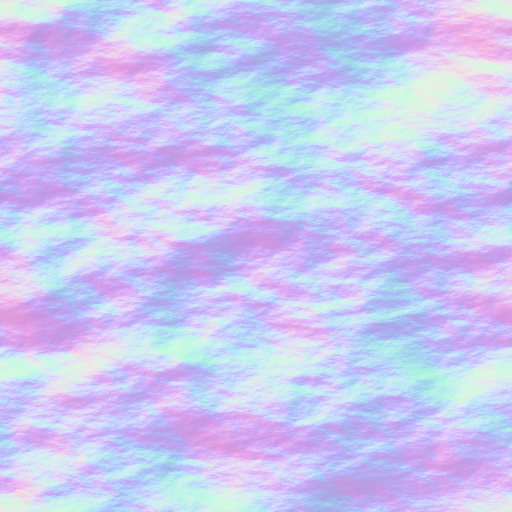
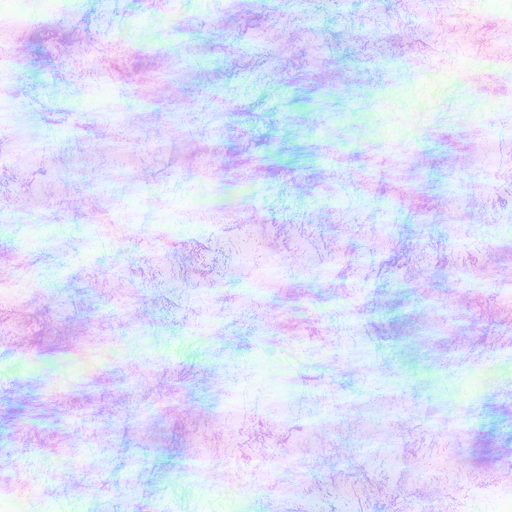
Editable water paramaters

diff --git a/main.py b/main.py
@@ -94,11 +94,13 @@ class Editor (DirectObject):
         self.grid.setColor(0,0,0,0.5) 
         self.grid_z=25.5
         self.grid_scale=16
+        self.grid.hide(BitMask32.bit(1))
         #self.grid.hide()
         #axis to help orient the scene
         self.axis=loader.loadModel('data/axis.egg')
         self.axis.reparentTo(render)
         self.axis.setLightOff()
+        self.axis.hide(BitMask32.bit(1))
         
         #store variables needed for diferent classes 
         self.mode=MODE_HEIGHT
@@ -320,6 +322,7 @@ class Editor (DirectObject):
         self.mesh.node().setFinal(1)
         self.mesh.setBin("background", 11)
         self.mesh.hide(BitMask32.bit(1))
+        self.mesh.setShaderInput("water_level",26.0)
         #emptyPlane = render.attachNewNode(PlaneNode("emptyPlane", Plane(Vec3(0, 0, 1), Point3(0, 0, 45))))        
         #self.mesh.setClipPlane(emptyPlane)
         
@@ -376,21 +379,27 @@ class Editor (DirectObject):
         tmpNP.setAttrib(CullFaceAttrib.makeReverse())
         tmpNP.setAttrib(ColorScaleAttrib.make(Vec4(24.0/200.0, 0.0, 0.0, 0.0)))
         self.waterCamera.node().setInitialState(tmpNP.getState())
-        self.waterNP.projectTexture(TextureStage("reflection"), wTexture, self.waterCamera)
-
+        #self.waterNP.projectTexture(TextureStage("reflection"), wTexture, self.waterCamera)
+        #reflect UV generated on the shader - faster(?)
+        self.waterNP.setShaderInput('camera',self.waterCamera)
+        self.waterNP.setShaderInput("reflection",wTexture)
+        
         self.waterNP.setShader(loader.loadShader("shaders/water.cg"))
         self.waterNP.setShaderInput("water_norm", loader.loadTexture('data/water.png'))  
+        self.waterNP.setShaderInput("height", self.painter.textures[BUFFER_HEIGHT]) 
         self.waterNP.setShaderInput("tile",10.0)
+        self.waterNP.setShaderInput("water_level",26.0)
         self.waterNP.setShaderInput("speed",0.02)
+        self.waterNP.setShaderInput("wave",Vec3(32.0, 34.0, 0.2))
         self.waterNP.setTransparency(TransparencyAttrib.MDual)
         
         #render.setAttrib(ColorScaleAttrib.make(Vec4(0.0, 0.0, 0.0, 1.0)))
         #light
         #sun
         self.dlight = DirectionalLight('dlight') 
-        self.dlight.setColor(VBase4(1.0, 1.0, 0.95, 1))     
+        self.dlight.setColor(VBase4(0.9, 0.9, 0.9, 1))     
         self.mainLight = render.attachNewNode(self.dlight)
-        self.mainLight.setP(-30)       
+        self.mainLight.setP(-60)       
         self.mainLight.setH(90)
         render.setLight(self.mainLight)
         
@@ -532,24 +541,30 @@ class Editor (DirectObject):
             horizont=self.gui.SkySeaOptions[5]
             tile=self.gui.SkySeaOptions[6]
             speed=self.gui.SkySeaOptions[7]
-            water_z=self.gui.SkySeaOptions[8]
+            wave=Vec3(self.gui.SkySeaOptions[8][0],self.gui.SkySeaOptions[8][1],self.gui.SkySeaOptions[8][2])
+            water_z=self.gui.SkySeaOptions[9]            
             self.skydome.setShaderInput("sky", sky)   
             render.setShaderInput("fog", fog) 
             self.skydome.setShaderInput("cloudColor", cloudColor)
             self.skydome.setShaderInput("cloudTile",cloudTile) 
             self.skydome.setShaderInput("cloudSpeed",cloudSpeed)
             self.skydome.setShaderInput("horizont",horizont)
+            self.mesh.setShaderInput("water_level",water_z)
             if water_z>0.0:
                 self.wBuffer.setActive(True)
                 self.waterNP.show()
                 self.waterNP.setShaderInput("tile",tile)
-                self.waterNP.setShaderInput("speed",speed)
+                self.waterNP.setShaderInput("speed",speed)                
+                self.waterNP.setShaderInput("water_level",water_z)
+                self.waterNP.setShaderInput("wave",wave)
                 self.waterNP.setPos(0, 0, water_z)
                 self.wPlane = Plane(Vec3(0, 0, 1), Point3(0, 0, water_z))
                 wPlaneNP = render.attachNewNode(PlaneNode("water", self.wPlane))
+                self.mesh.setShaderInput("water_level",water_z)
                 tmpNP = NodePath("StateInitializer")
                 tmpNP.setClipPlane(wPlaneNP)
                 tmpNP.setAttrib(CullFaceAttrib.makeReverse())
+                tmpNP.setAttrib(ColorScaleAttrib.make(Vec4((water_z-2.0)/200.0, 0.0, 0.0, 0.0)))
                 self.waterCamera.node().setInitialState(tmpNP.getState())
             else:
                 self.waterNP.hide()

diff --git a/guihelper.py b/guihelper.py
@@ -193,11 +193,22 @@ class GuiHelper():
                 value=min(1.0, max(0.001,value))
             except:
                 value=self.SkySeaOptions[7]
-        elif id==108:#Water Z
+        elif id==108:#Water Wave
+             #shoul be 3 element tuple/list            
+            if len(value)!=3:
+                value=self.SkySeaOptions[8]
+            try:    
+                final=[]    
+                for item in value:
+                    final.append(min(100.0, max(0.0, item)))
+                value=final    
+            except:
+                value=self.SkySeaOptions[8]        
+        elif id==109:#Water Z
             try:                    
                 value=min(200.0, max(-1.0,value))
             except:
-                value=self.SkySeaOptions[8]        
+                value=self.SkySeaOptions[9]         
         if id<100:    
             self.ConfigEntry[id].enterText(str(value))   
         else:
@@ -208,8 +219,8 @@ class GuiHelper():
         #this one done 'properly'        
         #ordered dict should be used here... but not in python 2.5
         #so the hack...well it looks like it won't be as 'propre' as advertised 
-        labels=['Sky Color:','Fog Color:','Cloud Color:','Cloud Tile:','Cloud Speed:','Horizont:','Water Tile:','Water Speed:', 'Water Level:\n(-1 to disable)']
-        self.SkySeaOptions=[[0.4,0.6,1.0, 1.0],[0.4, 0.4, 0.4, 0.002],[0.9,0.9,1.0, 0.8], 4.0, 0.008, 140.0,20.0,0.01, 26.0]
+        labels=['Sky Color:','Fog Color:','Cloud Color:','Cloud Tile:','Cloud Speed:','Horizont:','Water Tile:','Water Speed:', 'Water Wave:','Water Level:\n(-1 to disable)']
+        self.SkySeaOptions=[[0.4,0.6,1.0, 1.0],[0.4, 0.4, 0.4, 0.002],[0.9,0.9,1.0, 0.8], 4.0, 0.008, 140.0,10.0,0.01,[32.0, 32.0, 0.3], 26.0]
         text=""
         for item in labels:
             text+=item+'\n'
@@ -250,7 +261,7 @@ class GuiHelper():
         _resetPivot(self.cancelButton)        
         self.cancelButton.setPos(_pos2d(32,478)) 
         
-        self.okButton.bind(DGG.B1PRESS, self.validateAndExec, [command,2, 9, 100])        
+        self.okButton.bind(DGG.B1PRESS, self.validateAndExec, [command,2, 10, 100])        
         self.cancelButton.bind(DGG.B1PRESS, command, [False]) 
         
         self.SkySeaEntry=[]

diff --git a/buffpaint.py b/buffpaint.py
@@ -7,6 +7,7 @@ class BufferPainter ():
         self.pointer = loader.loadModel("data/pointer")
         self.pointer.reparentTo(render)
         self.pointer.setLightOff()
+        self.pointer.hide(BitMask32.bit(1))
         #the plane will bu used to see where the mouse pointer is
         self.z=25.5
         self.pointer.setZ(self.z)
